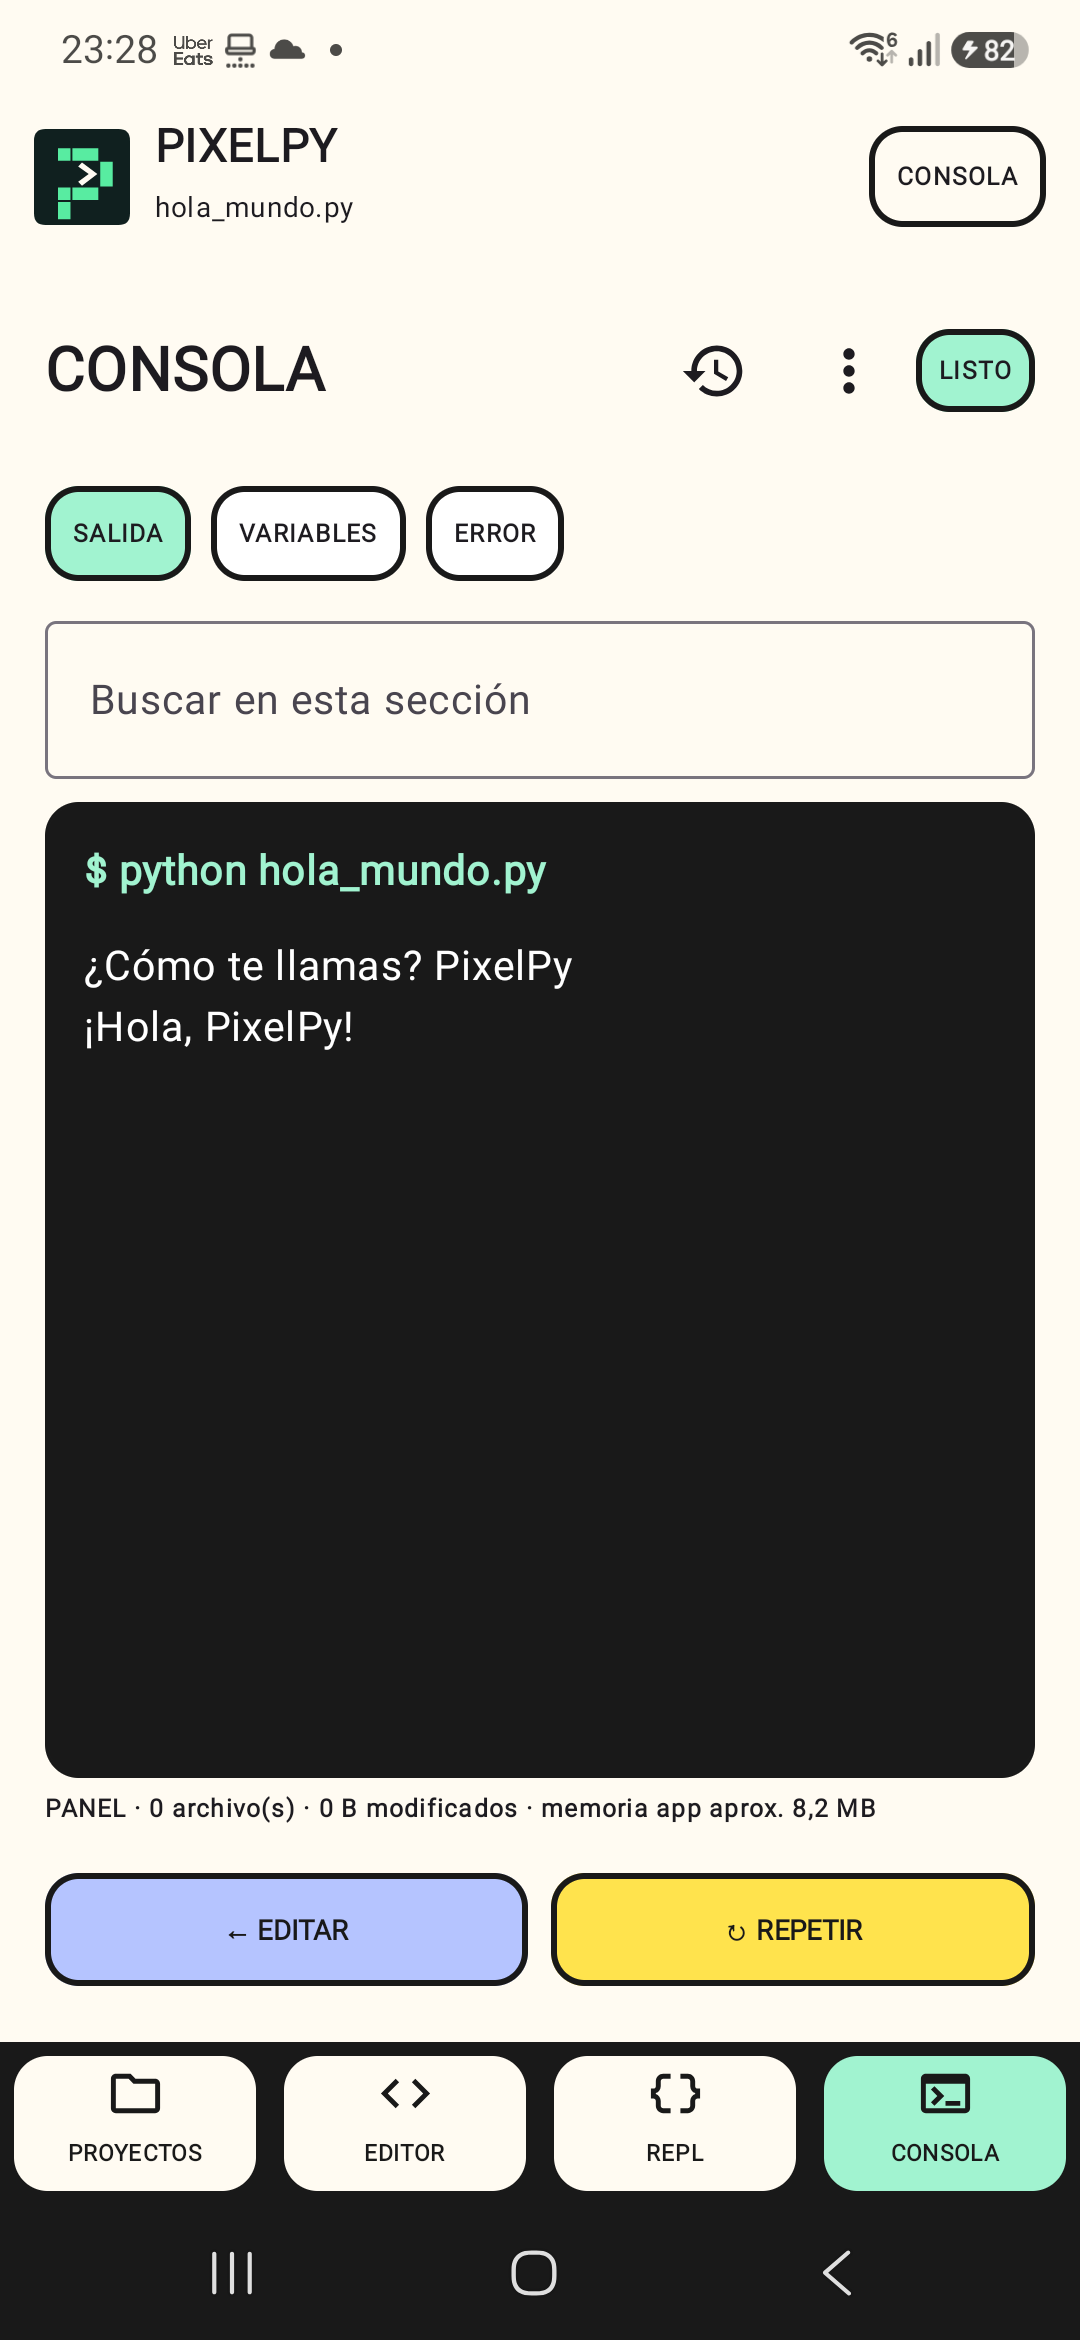
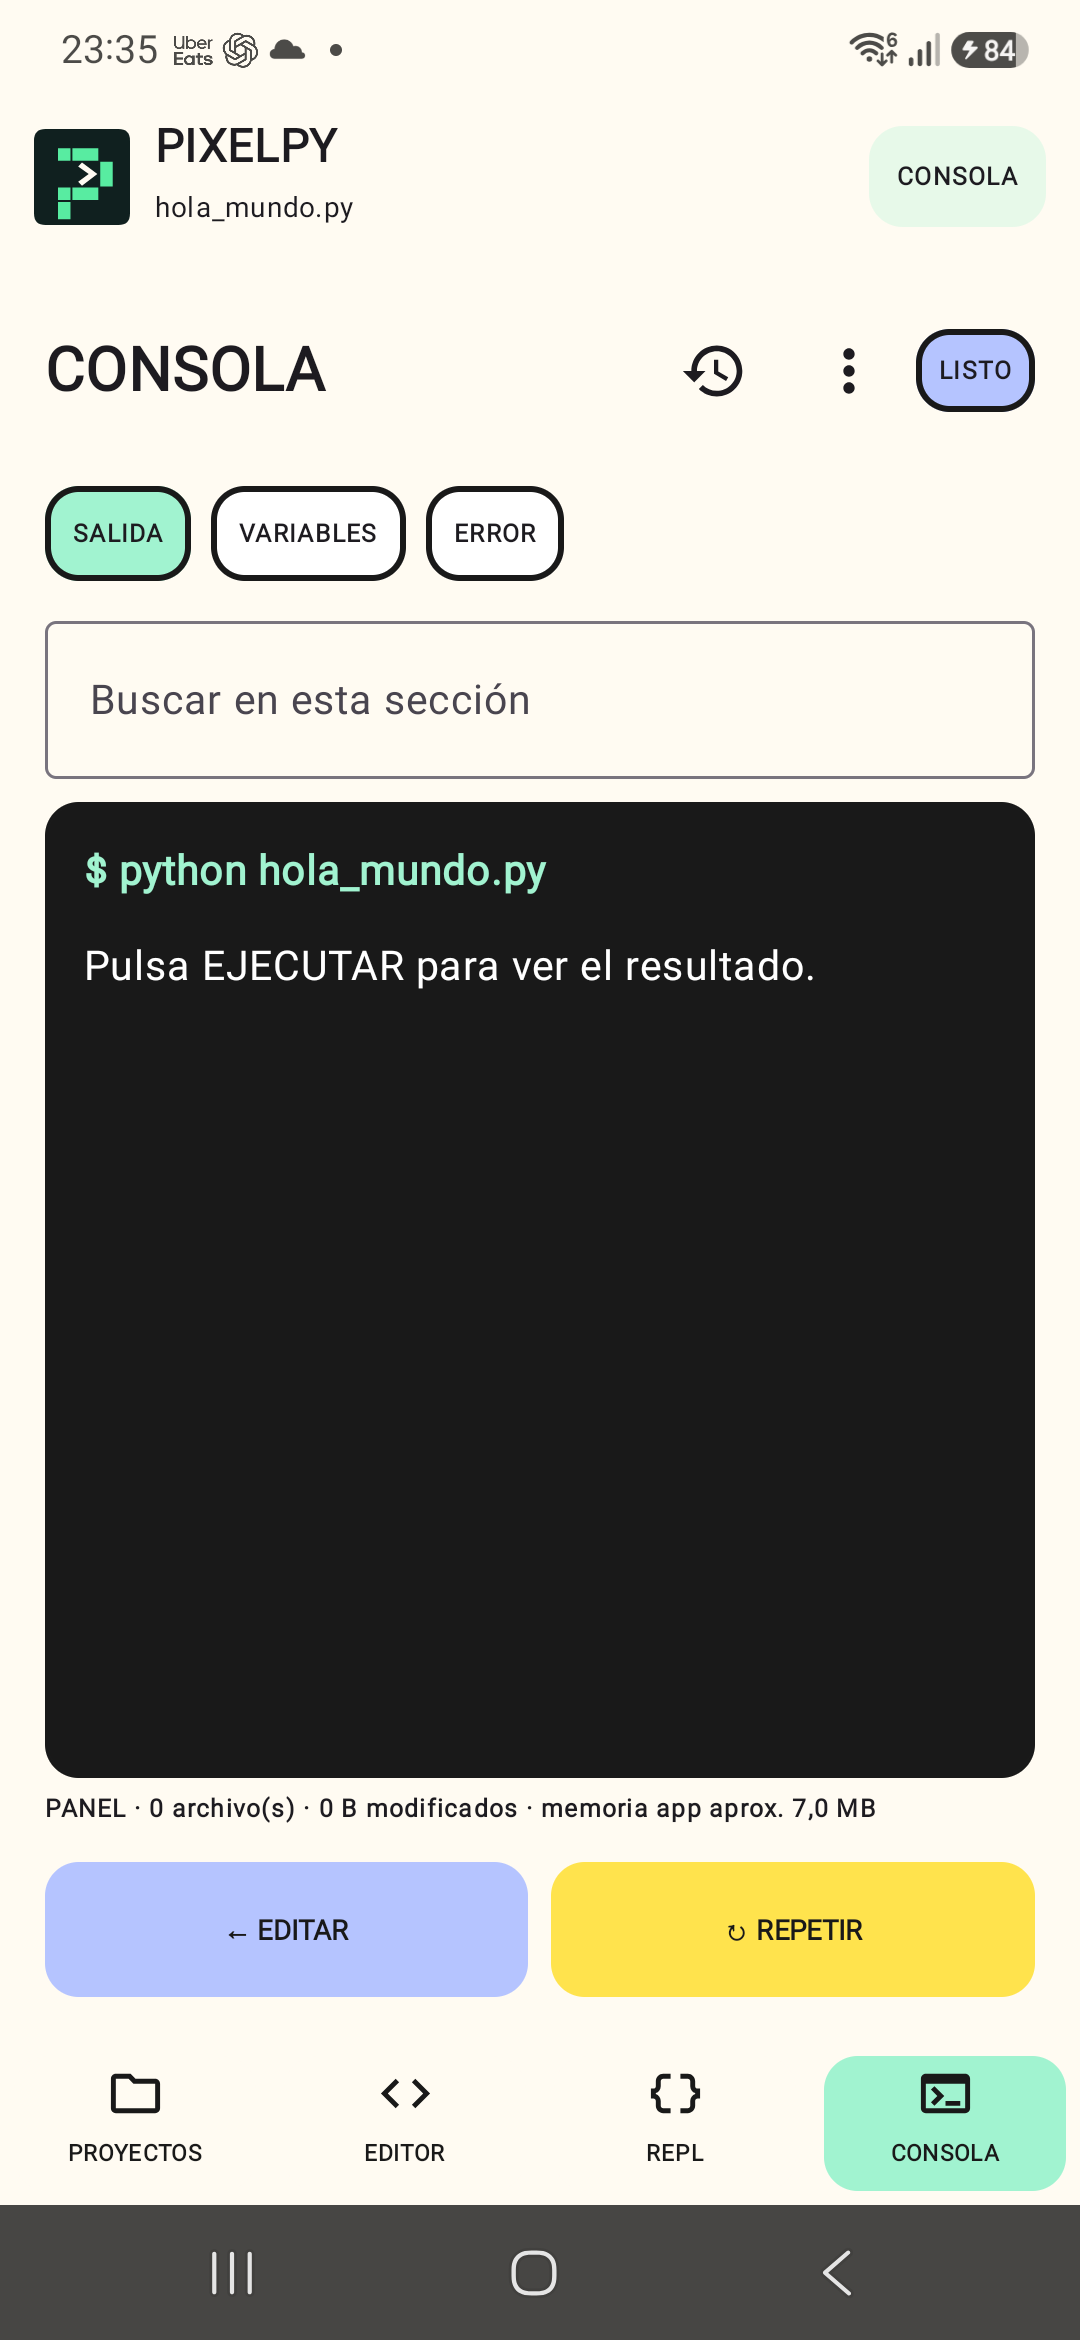
Acerca Pixel Studio a la referencia y renueva la documentación como NexusOS

diff --git a/pyeditor/src/main/java/com/pixelpy/editor/MainActivity.kt b/pyeditor/src/main/java/com/pixelpy/editor/MainActivity.kt
@@ -598,13 +598,13 @@ class MainActivity : ComponentActivity() {
                 if (!showAutomations && !showNotebook && (tab == Tab.Editor || running)) {
                     BrutalButton(if (running) "■ DETENER" else "▶ EJECUTAR", if (running) Pink else Green, Modifier.testTag("run-button"), onClick = { if (running) stopCode() else runCode(false) })
                 } else {
-                    Surface(color = Paper, border = BorderStroke(2.dp, Ink), shape = RoundedCornerShape(12.dp)) {
+                    Surface(color = Green.copy(alpha = 0.25f), shape = RoundedCornerShape(12.dp)) {
                         Text(if (showNotebook) "NOTEBOOK" else if (showAutomations) "AUTOMATIZACIONES" else when (tab) { Tab.Projects -> "PROYECTOS"; Tab.Repl -> "REPL"; Tab.Console -> "CONSOLA"; Tab.Editor -> "EDITOR" }, Modifier.padding(horizontal = 10.dp, vertical = 7.dp), fontWeight = FontWeight.Black, fontSize = 10.sp)
                     }
                 }
             }
         }, bottomBar = {
-            Row(Modifier.fillMaxWidth().background(Ink).navigationBarsPadding().height(58.dp)) {
+            Row(Modifier.fillMaxWidth().background(Paper).navigationBarsPadding().height(58.dp)) {
                 Nav(Tab.Projects, navigationTab, "PROYECTOS", Icons.Outlined.Folder) { showAutomations = false; showNotebook = false; tab = it }
                 Nav(Tab.Editor, navigationTab, "EDITOR", Icons.Outlined.Code) { showAutomations = false; showNotebook = false; tab = it }
                 Nav(Tab.Repl, navigationTab, "REPL", Icons.Outlined.DataObject) { showAutomations = false; showNotebook = false; tab = it }
@@ -926,11 +926,11 @@ private fun interface ResourceImporter {
             Spacer(Modifier.height(8.dp))
             Row(Modifier.fillMaxWidth().horizontalScroll(rememberScrollState()), horizontalArrangement = Arrangement.spacedBy(6.dp)) {
                 projects.forEach { project ->
-                    Surface(onClick = { onProject(project) }, modifier = Modifier.testTag("project-${project.name}"), color = if (project == selectedProject) Yellow else Color.White, border = BorderStroke(2.dp, Ink), shape = RoundedCornerShape(12.dp)) {
+                    Surface(onClick = { onProject(project) }, modifier = Modifier.testTag("project-${project.name}"), color = if (project.canonicalFile == selectedProject.canonicalFile) Green else Color.White, border = BorderStroke(1.dp, Ink.copy(alpha = 0.12f)), shape = RoundedCornerShape(12.dp)) {
                         Text("▣ ${project.name}", Modifier.padding(10.dp, 7.dp), fontWeight = FontWeight.Black, fontSize = 12.sp)
                     }
                 }
-                Surface(onClick = onNewProject, color = Pink, border = BorderStroke(2.dp, Ink), shape = RoundedCornerShape(12.dp)) { Text("＋ NUEVO", Modifier.padding(10.dp, 7.dp), fontWeight = FontWeight.Black, fontSize = 12.sp) }
+                Surface(onClick = onNewProject, color = Yellow, shape = RoundedCornerShape(12.dp)) { Text("＋ Nuevo proyecto", Modifier.padding(10.dp, 7.dp), fontWeight = FontWeight.Bold, fontSize = 12.sp) }
             }
             Spacer(Modifier.height(10.dp))
             Row(verticalAlignment = Alignment.CenterVertically) {
@@ -939,7 +939,7 @@ private fun interface ResourceImporter {
                     Text("${files.size} scripts · ${resources.size} recursos", fontSize = 11.sp)
                 }
                 Box {
-                    IconButton(onClick = { projectActions = true }, Modifier.border(2.dp, Ink)) { Icon(Icons.Outlined.MoreVert, "Acciones del proyecto") }
+                    IconButton(onClick = { projectActions = true }) { Icon(Icons.Outlined.MoreVert, "Acciones del proyecto") }
                     DropdownMenu(expanded = projectActions, onDismissRequest = { projectActions = false }) {
                         DropdownMenuItem(text = { Text("Plantillas y favoritos") }, onClick = { projectActions = false; templates = true }, leadingIcon = { Icon(Icons.Outlined.Star, null) })
                         DropdownMenuItem(text = { Text("Apariencia y accesibilidad") }, onClick = { projectActions = false; onPreferences() }, leadingIcon = { Icon(Icons.Outlined.Settings, null) })
@@ -955,21 +955,22 @@ private fun interface ResourceImporter {
         }
         item {
             Row(Modifier.fillMaxWidth(), horizontalArrangement = Arrangement.spacedBy(6.dp)) {
-                BrutalButton("▦ NOTEBOOK", Pink, Modifier.weight(1f).testTag("open-notebook"), onClick = onNotebook)
-                BrutalButton("⚙ AUTOMATIZACIONES", Green, Modifier.weight(1f).testTag("open-automations"), onClick = onAutomations)
+                TextButton(onClick = onNotebook, modifier = Modifier.weight(1f).testTag("open-notebook")) { Text("▦ Notebooks", color = Ink) }
+                TextButton(onClick = onAutomations, modifier = Modifier.weight(1f).testTag("open-automations")) { Text("⚙ Automatizaciones", color = Ink) }
             }
         }
         item {
             Row(Modifier.fillMaxWidth(), horizontalArrangement = Arrangement.spacedBy(6.dp)) {
-                BrutalButton("SCRIPTS ${files.size}", if (contentSection == "SCRIPTS") Yellow else Color.White, Modifier.weight(1f)) { contentSection = "SCRIPTS" }
-                BrutalButton("RECURSOS ${resources.size}", if (contentSection == "RECURSOS") Blue else Color.White, Modifier.weight(1f)) { contentSection = "RECURSOS" }
+                FilterChip(selected = contentSection == "SCRIPTS", onClick = { contentSection = "SCRIPTS" }, label = { Text("Scripts · ${files.size}") })
+                FilterChip(selected = contentSection == "RECURSOS", onClick = { contentSection = "RECURSOS" }, label = { Text("Recursos · ${resources.size}") })
+                Spacer(Modifier.weight(1f))
+                if (contentSection == "SCRIPTS") IconButton(onClick = onNew) { Icon(Icons.Outlined.Add, "Nuevo script") }
             }
         }
-        if (contentSection == "SCRIPTS") item { BrutalButton("＋ NUEVO SCRIPT", Pink, Modifier.fillMaxWidth(), onClick = onNew) }
         if (contentSection == "SCRIPTS") items(files, key = { it.path }) { file ->
-            BrutalCard(if (file == current) Blue else Color.White) {
-                Row(verticalAlignment = Alignment.CenterVertically) {
-                    Box(Modifier.size(40.dp).background(Yellow).border(2.dp, Ink), contentAlignment = Alignment.Center) { Text(".PY", fontWeight = FontWeight.Black, fontSize = 11.sp) }
+            Surface(onClick = { onOpen(file) }, modifier = Modifier.fillMaxWidth().testTag("project-open-${file.name}"), color = if (file == current) Green.copy(alpha = 0.3f) else Color.White, shape = RoundedCornerShape(12.dp), border = BorderStroke(1.dp, Ink.copy(alpha = 0.1f))) {
+                Row(Modifier.padding(12.dp), verticalAlignment = Alignment.CenterVertically) {
+                    Box(Modifier.size(40.dp).background(Blue.copy(alpha = 0.45f), RoundedCornerShape(10.dp)), contentAlignment = Alignment.Center) { Icon(Icons.Outlined.Code, null, tint = Ink) }
                     Spacer(Modifier.width(10.dp)); Column(Modifier.weight(1f)) { Text(file.name, fontFamily = FontFamily.Monospace, fontWeight = FontWeight.Bold, fontSize = 15.sp, maxLines = 1); Text("${formatBytes(file.length())}${if (file == current) " · abierto" else " · guardado local"}", fontSize = 11.sp) }
                     Box {
                         IconButton(onClick = { scriptActionsTarget = file }) { Icon(Icons.Outlined.MoreVert, "Más acciones") }
@@ -981,7 +982,6 @@ private fun interface ResourceImporter {
                         }
                     }
                 }
-                Spacer(Modifier.height(8.dp)); BrutalButton(if (file == current) "ABIERTO" else "ABRIR", if (file == current) Green else Yellow, Modifier.fillMaxWidth().testTag("project-open-${file.name}"), onClick = { onOpen(file) })
             }
         }
         if (contentSection == "RECURSOS") item {
@@ -1260,7 +1260,7 @@ private fun interface ResourceImporter {
 }
 
 @Composable private fun BrutalButton(label: String, color: Color, modifier: Modifier = Modifier, enabled: Boolean = true, onClick: () -> Unit) {
-    Button(onClick, modifier.heightIn(min = 40.dp), enabled = enabled, shape = RoundedCornerShape(12.dp), border = BorderStroke(2.dp, Ink), contentPadding = PaddingValues(horizontal = 12.dp, vertical = 8.dp), colors = ButtonDefaults.buttonColors(containerColor = color, contentColor = Ink, disabledContainerColor = Color.LightGray)) { Text(label, fontWeight = FontWeight.Black, fontSize = 11.sp) }
+    Button(onClick, modifier.heightIn(min = 48.dp), enabled = enabled, shape = RoundedCornerShape(12.dp), contentPadding = PaddingValues(horizontal = 12.dp, vertical = 8.dp), colors = ButtonDefaults.buttonColors(containerColor = color, contentColor = Ink, disabledContainerColor = Color.LightGray)) { Text(label, fontWeight = FontWeight.Bold, fontSize = 11.sp) }
 }
 
 @Composable private fun NewFileDialog(onDismiss: () -> Unit, onCreate: (String) -> Unit) {

diff --git a/README.md b/README.md
@@ -1,3 +1,7 @@
+<div align="center">
+
+<img src="docs/assets/pixelpy-banner.svg" alt="PixelPy — Tu laboratorio Python. En tu bolsillo." width="100%" />
+
 # PixelPy
 
 ### Tu laboratorio Python. En tu bolsillo.
@@ -12,7 +16,19 @@ Consulta también los [recorridos y criterios de experiencia de usuario](docs/ex
 ![Python 3.13](https://img.shields.io/badge/Python-3.13-8CBFFF?logo=python&logoColor=111111)
 ![Verificación Android](https://github.com/rck1996/PixelPy-Android/actions/workflows/android.yml/badge.svg)
 
+[Recorrido](#capturas) · [Empezar](#primeros-pasos) · [Compilar](#compilar) · [Calidad](#calidad) · [Documentación](#documentación)
+
+</div>
+
 ## De una idea a un resultado
+
+| Quiero… | Abrir | Siguiente paso |
+| --- | --- | --- |
+| Escribir Python | Editor | Toca un script en Proyectos y ejecuta |
+| Explorar datos por etapas | Notebook | Selecciona o importa un `.ipynb` |
+| Consultar un archivo | Recursos | Elige la carpeta y abre su vista previa |
+| Repetir un proceso | Automatizaciones | Configura horario y revisa su historial |
+| Probar una expresión | REPL | Ejecuta comandos en la sesión del proyecto |
 
 | Trabaja | Explora | Automatiza |
 | --- | --- | --- |
@@ -64,6 +80,11 @@ La interfaz mantiene una sola acción principal visible por elemento. Compartir,
 
 ## Capturas
 
+Capturas reales del Samsung S25+ con Android 16. Las propuestas conceptuales están separadas en [Exploración de diseño](docs/design-proposals/README.md).
+
+<details open>
+<summary>Ver la galería del teléfono</summary>
+
 <p align="center">
   <img src="docs/screenshots/studio-projects.png" alt="Pixel Studio: proyectos en Samsung S25+" width="31%" />
   <img src="docs/screenshots/studio-editor.png" alt="Pixel Studio: editor en Samsung S25+" width="31%" />
@@ -71,21 +92,19 @@ La interfaz mantiene una sola acción principal visible por elemento. Compartir,
 </p>
 
 <p align="center">
-  <img src="docs/screenshots/studio-notebook.png" alt="Pixel Studio: notebook local" width="31%" />
-  <img src="docs/screenshots/studio-automations.png" alt="Pixel Studio: automatizaciones" width="31%" />
-  <img src="docs/screenshots/widget.png" alt="Widget de resultados de PixelPy" width="31%" />
-</p>
-
-<p align="center">
-  <img src="docs/screenshots/result-csv-table.png" alt="Tabla CSV interactiva de PixelPy" width="46%" />
-  <img src="docs/screenshots/result-json-tree.png" alt="Árbol JSON plegable de PixelPy" width="46%" />
-</p>
-
-<p align="center">
-  <img src="docs/screenshots/premium-tools.png" alt="Plantillas, accesibilidad y herramientas premium de PixelPy" width="46%" />
+  <img src="docs/screenshots/studio-notebook.png" alt="Pixel Studio: notebook local" width="46%" />
+  <img src="docs/screenshots/studio-automations.png" alt="Pixel Studio: automatizaciones" width="46%" />
 </p>
 
 Consulta el flujo, Markdown compatible y límites del MVP en [Notebook local](docs/notebook.md).
+
+</details>
+
+## Pixel Spark · identidad
+
+<img src="docs/assets/pixelpy-banner.svg" alt="Identidad Pixel Spark: P modular y terminal" width="600" />
+
+La P modular y el terminal representan el paso de código a resultados. Pixel Studio utiliza crema, menta, amarillo y periwinkle; el icono Android incluye una variante monocroma.
 
 ## Resultados publicados
 
@@ -134,3 +153,24 @@ Los parámetros guardados se exponen durante la ejecución como variables de ent
 ## Privacidad
 
 Los proyectos, automatizaciones y resultados publicados se guardan localmente. PixelPy solo usa Internet cuando un script del usuario realiza una solicitud de red.
+
+## Calidad
+
+| Comprobación registrada | Resultado |
+| --- | --- |
+| Pruebas unitarias | 67 sin fallos en la validación de 1.8.0 |
+| Compilación y lint | Completados localmente |
+| S25+ · Android 16 | Instalación, navegación y ejecución con `input()` comprobadas |
+| Cobertura adicional | Accesibilidad exhaustiva y todos los escenarios de segundo plano pendientes |
+
+El badge superior muestra CI en vivo; esta tabla describe las comprobaciones locales registradas. [Recorridos y límites de validación](docs/experiencia-de-usuario.md).
+
+## Documentación
+
+| Para usar PixelPy | Para conocer el proyecto |
+| --- | --- |
+| [Notebook y gráficos](docs/notebook.md) | [Diseño y recorridos](docs/experiencia-de-usuario.md) |
+| [Resultados y widget](docs/resultados-publicados.md) | [Notas de 1.8.0](docs/release-1.8.0.md) |
+| [Descargas](https://github.com/rck1996/PixelPy-Android/releases) | [Propuestas de diseño](docs/design-proposals/README.md) |
+
+La presentación sigue el enfoque de [NexusOS](https://github.com/rck1996/NexusOS): navegación por intención, evidencia real y galerías plegables.

diff --git a/docs/experiencia-de-usuario.md b/docs/experiencia-de-usuario.md
@@ -14,6 +14,11 @@ PixelPy adopta Pixel Studio: superficies crema, acentos menta, amarillo y periwi
 
 ## Comportamientos implementados
 
+- En Proyectos los scripts se abren tocando su fila; las operaciones secundarias siguen en el menú de cada archivo.
+- Scripts y Recursos usan chips compactos; el botón de nuevo script se sitúa junto a ellos.
+- El proyecto activo se identifica por su ruta canónica y se resalta en menta.
+- La navegación inferior usa fondo claro y los botones principales evitan contornos negros repetidos.
+
 - Atrás cierra Notebook o Automatizaciones, vuelve de Consola a Editor y desde Editor o REPL vuelve a Proyectos.
 - La barra inferior identifica Proyectos cuando se abre una herramienta del proyecto.
 - Una solicitud de entrada del script permite enviar la respuesta o detener la ejecución.
